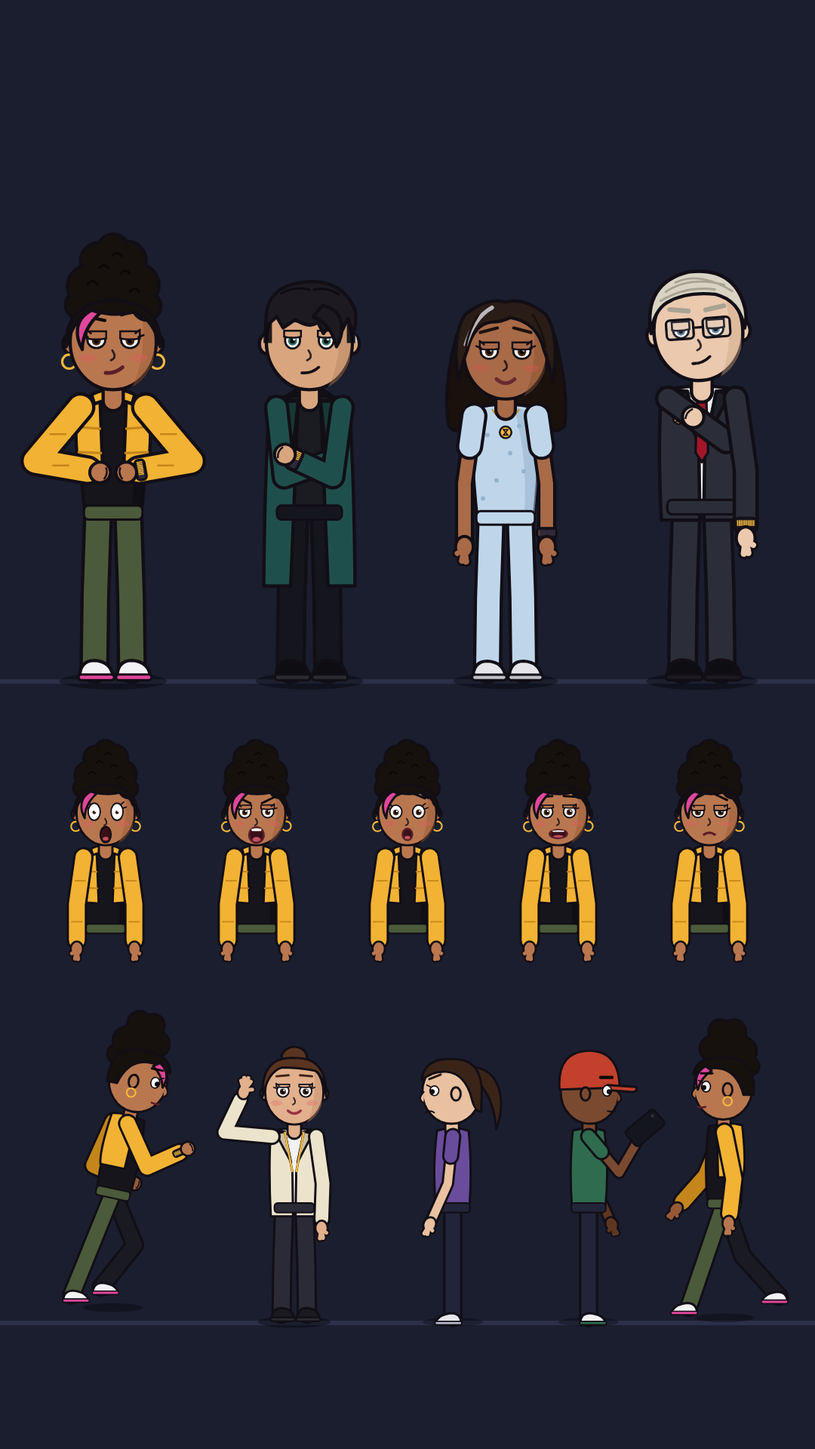
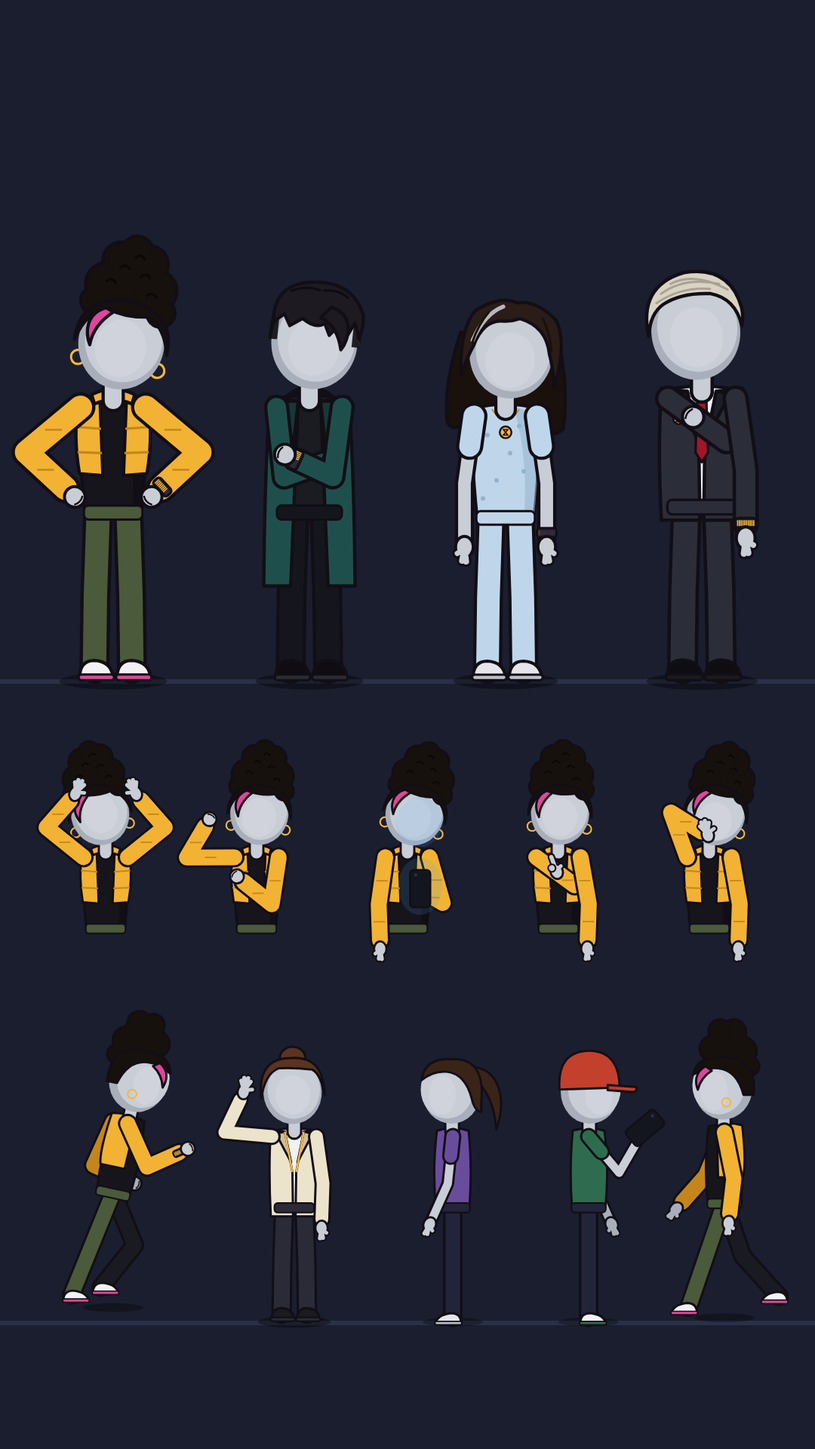
SALDO FINAL (Zara): rostos no estilo SALDO FINAL (cabeças cinza sem traços), emoção pela postura
Claude-Session: https://claude.ai/code/session_01CqQZBRn4GtT1uCn1wLfiQv

diff --git a/saldo-final-zara/src/characters/Toon.tsx b/saldo-final-zara/src/characters/Toon.tsx
@@ -129,6 +129,23 @@ const EXPR: Record<Expr, {brow: number; browY: number; eye: number; lid: number;
   cold:       {brow: 6,   browY: 2,   eye: 0.8,  lid: 0.32, pup: 0.9,  mouth: 'smirk'},
 };
 
+/** CABEÇA SEM ROSTO — mesmo estilo da série SALDO FINAL (Maya): cabeça redonda cinza-clara, sem olhos,
+ * nariz ou boca; volume por uma esfera clara deslocada para o lado do rosto + plano do rosto discreto. */
+export const FacelessHead: React.FC<{lookX: number; lookY: number; skin: string; shade: string; side?: boolean}> = ({lookX, lookY, skin, shade, side}) => {
+  const cx = side ? 4 : 0;
+  return (
+    <g>
+      <ellipse cx={cx} cy={-722} rx={92} ry={100} fill={shade} />
+      <ellipse cx={cx + lookX * 12 + 4} cy={-730} rx={83} ry={92} fill={skin} />
+      <ellipse cx={cx + lookX * 34} cy={-712 + lookY * 20} rx={55 - Math.abs(lookX) * 14} ry={62} fill="#FFFFFF" opacity={0.13} />
+    </g>
+  );
+};
+const EXPR_HEAD: Record<Expr, number> = {neutral: 0, smile: -3, smirk: 6, sarcastic: 10, worried: 5, sad: 12, weak: 10, tender: 7,
+  surprised: -7, shock: -10, fear: -4, angry: 5, determined: 3, cold: -3};
+const EXPR_LOOKY: Record<Expr, number> = {neutral: 0, smile: -0.1, smirk: 0, sarcastic: 0.1, worried: 0.2, sad: 0.8, weak: 0.6, tender: 0.3,
+  surprised: -0.4, shock: -0.5, fear: -0.1, angry: 0.2, determined: 0.1, cold: 0.1};
+
 export const blink = (t: number, seed = 0) => {
   const period = 2.9 + (seed % 4) * 0.6;
   const p = (t + seed * 0.37) % period;
@@ -405,7 +422,8 @@ export const Toon: React.FC<ToonProps> = (p) => {
   const bob = run * Math.abs(Math.sin(cyc)) * -18;
   const tr = tremble ? Math.sin(t * 55) * 3 * tremble : 0;
   const fx = lookX * 22;
-  const head = (pose.head ?? 0) + talk * Math.sin(t * 11) * 1.5;
+  const head = (pose.head ?? 0) + EXPR_HEAD[expr] + talk * Math.sin(t * 11) * 2.2 + talk * Math.sin(t * 4.3) * 1.5;
+  const lookYb = lookY + EXPR_LOOKY[expr];
   const sway = Math.sin(t * 2.3) * 5 - lookX * 10;
   let ps = pose;
   if (phone === 'ear' && !pose.lT) ps = {...pose, lT: {x: 96, y: -700}, lHand: 'grip'};
@@ -423,16 +441,12 @@ export const Toon: React.FC<ToonProps> = (p) => {
         <TorsoFront look={look} br={br} />
         <Stroke d="M0,-640 L0,-596" w={36} col={look.skin} />
         <g transform={`rotate(${head}, 0, -620) translate(0, ${br * 0.2})`}>
-          {/* orelhas */}
-          {[-1, 1].map((sd) => <ellipse key={sd} cx={sd * 92 + fx * 0.3} cy={-718} rx={15} ry={21} fill={look.skin} stroke={OL} strokeWidth={OW} />)}
-          {look.hoops && [-1, 1].map((sd) => <circle key={`h${sd}`} cx={sd * 94 + fx * 0.3} cy={-680} r={15} fill="none" stroke={look.hoops} strokeWidth={5} />)}
-          {look.earcuff && <path d={`M${88 + fx * 0.3},-736 a8,10 0 0,1 10,14`} stroke="#C9CED8" strokeWidth={5} fill="none" />}
-          <ellipse cx={0} cy={-722} rx={92} ry={102} fill={look.skin} stroke={OL} strokeWidth={OW} />
-          <path d={`M60,-800 Q96,-760 86,-680 Q70,-640 40,-626 Q74,-690 60,-800 Z`} fill={look.skinShade} opacity={0.45} />
-          {look.stubble && <path d="M-74,-690 Q-66,-620 0,-622 Q66,-620 74,-690 Q60,-646 0,-646 Q-60,-646 -74,-690 Z" fill={look.stubble} opacity={0.45} />}
-          <FaceFront look={look} expr={expr} t={t} lookX={lookX} lookY={lookY} talk={talk} vis={vis} seed={seed} />
+          {look.hoops && [-1, 1].map((sd) => <circle key={`h${sd}`} cx={sd * 86 + fx * 0.2} cy={-676} r={15} fill="none" stroke={look.hoops} strokeWidth={5} />)}
+          {look.earcuff && <path d={`M${84 + fx * 0.2},-736 a8,10 0 0,1 10,14`} stroke="#E6E8EF" strokeWidth={5} fill="none" />}
+          <FacelessHead lookX={lookX} lookY={lookYb} skin={look.skin} shade={look.skinShade} />
           <HairFront look={look} fx={fx} t={t} />
-          {faceLight && <ellipse cx={0} cy={-700} rx={92} ry={96} fill={faceLight} opacity={0.13} />}
+          {faceLight && <ellipse cx={lookX * 30} cy={-712} rx={80} ry={86} fill={faceLight} opacity={0.22} />}
+          {phoneGlow && phone !== 'none' && <ellipse cx={20 + lookX * 20} cy={-700} rx={74} ry={80} fill={phoneGlow} opacity={0.14} />}
         </g>
         <ArmFront side={-1} sh={R[0]} el={R[1]} look={look} hand={ps.rHand ?? (phone === 'R' ? 'grip' : 'relaxed')} handRot={ps.rHandRot} fs={ps.rFs} prop={phone === 'R' ? ph : holdR} t={t} />
         <ArmFront side={1} sh={L[0]} el={L[1]} look={look} hand={ps.lHand ?? (phone === 'L' || phone === 'ear' ? 'grip' : 'relaxed')} handRot={ps.lHandRot} fs={ps.lFs}
@@ -525,17 +539,9 @@ const ToonSide: React.FC<ToonProps> = ({t, look, expr = 'neutral', lookY = 0, ta
         <rect x={-54} y={-372} width={108} height={30} rx={10} fill={look.pants} stroke={OL} strokeWidth={5} />
         <Stroke d="M2,-640 L2,-596" w={36} col={look.skin} />
         <g transform={`rotate(${lookY * 10}, 0, -640)`}>
-          <ellipse cx={4} cy={-722} rx={92} ry={100} fill={look.skin} stroke={OL} strokeWidth={OW} />
-          <path d="M90,-724 Q114,-700 92,-688" fill={look.skin} stroke={OL} strokeWidth={5} />
-          {look.stubble && <path d="M10,-640 Q60,-628 86,-670 L86,-640 Q50,-612 10,-622 Z" fill={look.stubble} opacity={0.45} />}
+          <FacelessHead lookX={0.85} lookY={lookY} skin={look.skin} shade={look.skinShade} side />
           {hairSide()}
-          <ellipse cx={-10} cy={-716} rx={15} ry={21} fill={look.skin} stroke={OL} strokeWidth={OW} />
-          {look.hoops && <circle cx={-10} cy={-680} r={14} fill="none" stroke={look.hoops} strokeWidth={5} />}
-          <line x1={38} y1={-768 + E.browY + E.brow * 0.4} x2={74} y2={-768 + E.browY - E.brow * 0.4} stroke={look.hairShade} strokeWidth={look.brow ?? (look.female ? 7 : 10)} strokeLinecap="round" />
-          <ellipse cx={58} cy={-726} rx={14} ry={Math.max(1.5, eyeH)} fill="#fff" stroke={OL} strokeWidth={4} />
-          {eyeH > 4 && <circle cx={65} cy={-723 + lookY * 5} r={Math.min(8 * E.pup, eyeH)} fill="#0C0A10" />}
-          {look.female && eyeH > 4 && <path d={`M70,${-726 - eyeH * 0.8} l12,-6`} stroke={OL} strokeWidth={4} strokeLinecap="round" />}
-          <Mouth expr={expr} talk={talk} vis={vis} mx={mx} my={my} look={look} s={0.8} />
+          {look.hoops && <circle cx={-6} cy={-676} r={14} fill="none" stroke={look.hoops} strokeWidth={5} />}
         </g>
         {arm(nSh, nEl, true)}
       </g>
@@ -550,7 +556,7 @@ export const extraLook = (seed: number, base: Partial<Look> = {}): Look => {
   const tops = ['#3D4A6B', '#6B3D5A', '#2F6B5E', '#7A5A2E', '#4E4E5E', '#5A3D7A'];
   const styles: Look['hairStyle'][] = ['short', 'bun', 'ponytail', 'cap', 'short'];
   const r = (k: string) => rnd(`${seed}${k}`);
-  const [sk, ss] = skins[Math.floor(r('s') * skins.length)];
+  const [sk, ss] = ['#C9CDD6', '#A9AEBB']; void skins;
   const [hc, hs] = hairs[Math.floor(r('h') * hairs.length)];
   const st = styles[Math.floor(r('st') * styles.length)];
   return {

diff --git a/saldo-final-zara/src/characters/Cast.tsx b/saldo-final-zara/src/characters/Cast.tsx
@@ -2,10 +2,13 @@ import React from 'react';
 import {Look, Pose, Toon, ToonProps} from './Toon';
 import {C} from '../styles/theme';
 
+/** corpo cinza-claro, igual em todo o elenco (estilo SALDO FINAL) */
+export const SKIN = '#C9CDD6', SKIN_SHADE = '#A9AEBB';
+
 /** ELENCO OFICIAL — não alterar aparência entre episódios (ver GUIA_DE_CONTINUIDADE.md). */
 export const ZARA: Look = {
   name: 'Zara Vilar', female: true,
-  skin: '#B9774F', skinShade: '#965A37', blush: '#D9605E', lips: '#5A1F2A',
+  skin: SKIN, skinShade: SKIN_SHADE,
   hair: '#17110E', hairShade: '#0B0807', hairStyle: 'puff', streak: C.magenta, eyeColor: '#4A2A14',
   shirt: '#17151C', shirtShade: '#0C0B10', top: 'puffer', topColor: '#F2B233', topShade: '#C4861A',
   pants: '#4B5A3A', shoe: '#F2F2F5', sole: C.magenta, hoops: C.gold, build: 0.92,
@@ -13,37 +16,37 @@ export const ZARA: Look = {
 export const ZARA_DELIVERY: Look = {...ZARA, bag: true};
 export const DANTE: Look = {
   name: 'Dante Reis',
-  skin: '#D8A57E', skinShade: '#B5845F', hair: '#1D1A22', hairShade: '#0E0C12', hairStyle: 'messy', eyeColor: '#2D6B5E',
+  skin: SKIN, skinShade: SKIN_SHADE, hair: '#1D1A22', hairShade: '#0E0C12', hairStyle: 'messy', eyeColor: '#2D6B5E',
   shirt: '#1B1B22', shirtShade: '#101016', top: 'coat', topColor: '#1F4F4C', topShade: '#163937',
   pants: '#15161D', shoe: '#0E0E12', sole: '#2A2B33', earcuff: true, build: 1.02,
 };
 export const HELENA: Look = {
   name: 'Helena Vilar', female: true,
-  skin: '#A86A47', skinShade: '#88502F', blush: '#C9584F', lips: '#6A2A30',
+  skin: SKIN, skinShade: SKIN_SHADE,
   hair: '#2A1C16', hairShade: '#1A110D', hairStyle: 'wavy', eyeColor: '#4A2A14',
   shirt: '#BFD6EA', shirtShade: '#94B2CC', top: 'gown', pants: '#BFD6EA', shoe: '#E6E6EA', sole: '#C0C0C8', locket: true, build: 0.95,
 };
 export const CIRO: Look = {
   name: 'Ciro Voss',
-  skin: '#EBC9AE', skinShade: '#CFA88A', hair: '#D9D3C4', hairShade: '#A9A293', hairStyle: 'slick', eyeColor: '#5B7A99',
+  skin: SKIN, skinShade: SKIN_SHADE, hair: '#D9D3C4', hairShade: '#A9A293', hairStyle: 'slick', eyeColor: '#5B7A99',
   shirt: '#F2F2F5', shirtShade: '#CFCFD8', top: 'suit', topColor: '#2B2D38', topShade: '#1C1E27', tie: '#A3162A', pin: C.gold,
-  pants: '#2B2D38', shoe: '#0E0E12', sole: '#1A1A20', glasses: true, build: 1.05,
+  pants: '#2B2D38', shoe: '#0E0E12', sole: '#1A1A20', build: 1.05,
 };
 export const ATENDENTE: Look = {
   name: 'Atendente Áurea', female: true,
-  skin: '#E2B08C', skinShade: '#C48F6C', blush: '#E07C70', lips: '#9A3344',
+  skin: SKIN, skinShade: SKIN_SHADE,
   hair: '#5A3420', hairShade: '#3F2315', hairStyle: 'bun',
   shirt: '#F2F2F5', shirtShade: '#D5D5DD', top: 'blazer', topColor: '#ECE3CC', topShade: '#CBBF9F', trim: C.gold,
   pants: '#2A2B36', shoe: '#1A1A20', sole: '#2A2A30', build: 0.92,
 };
 export const JOVEM: Look = {
   name: 'Jovem no guichê', female: true,
-  skin: '#E9C1A0', skinShade: '#CA9F7D', blush: '#E07C70', hair: '#3A2418', hairShade: '#24160F', hairStyle: 'ponytail',
+  skin: SKIN, skinShade: SKIN_SHADE, hair: '#3A2418', hairShade: '#24160F', hairStyle: 'ponytail',
   shirt: '#6A4C9C', shirtShade: '#4E3778', top: 'hoodie', pants: '#22243A', shoe: '#E6E6EA', sole: '#B9BCC8', build: 0.9,
 };
 export const RAPAZ: Look = {
   name: 'Rapaz da fila',
-  skin: '#7A4A30', skinShade: '#5E3620', hair: '#14110F', hairShade: '#0B0908', hairStyle: 'cap', capColor: '#C2402C',
+  skin: SKIN, skinShade: SKIN_SHADE, hair: '#14110F', hairShade: '#0B0908', hairStyle: 'cap', capColor: '#C2402C',
   shirt: '#2F6B4E', shirtShade: '#214D38', top: 'hoodie', pants: '#22243A', shoe: '#F2F2F5', sole: '#2F6B4E',
 };
 

diff --git a/saldo-final-zara/src/CharacterSheet.tsx b/saldo-final-zara/src/CharacterSheet.tsx
@@ -16,11 +16,11 @@ export const CharacterSheet: React.FC = () => {
         <Toon t={t} look={HELENA} pose={P.idle} expr="tender" x={670} y={900} scale={0.6} band={0.05} />
         <Toon t={t} look={CIRO} pose={P.lapel} expr="cold" x={930} y={900} scale={0.64} band={1} />
         <rect x={0} y={1750} width={1080} height={6} fill="#2A3048" />
-        <Toon t={t} look={ZARA} expr="shock" x={140} y={1380} scale={0.42} noLegs />
-        <Toon t={t} look={ZARA} expr="angry" x={340} y={1380} scale={0.42} noLegs talk={0.7} vis="A" />
-        <Toon t={t} look={ZARA} expr="worried" x={540} y={1380} scale={0.42} noLegs talk={0.5} vis="O" />
-        <Toon t={t} look={ZARA} expr="smile" x={740} y={1380} scale={0.42} noLegs talk={0.6} vis="E" />
-        <Toon t={t} look={ZARA} expr="sad" x={940} y={1380} scale={0.42} noLegs />
+        <Toon t={t} look={ZARA} pose={P.headHands} expr="shock" x={140} y={1380} scale={0.42} noLegs />
+        <Toon t={t} look={ZARA} pose={P.weapon} expr="angry" x={340} y={1380} scale={0.42} noLegs />
+        <Toon t={t} look={ZARA} pose={P.phoneLook} phone="L" phoneGlow="#3FA7FF" expr="worried" x={540} y={1380} scale={0.42} noLegs />
+        <Toon t={t} look={ZARA} pose={P.pointFwd} expr="determined" x={740} y={1380} scale={0.42} noLegs />
+        <Toon t={t} look={ZARA} pose={P.coverMouth} expr="sad" x={940} y={1380} scale={0.42} noLegs />
         <Toon t={t} look={ZARA} facing="side" run={1} x={150} y={1750} scale={0.42} band={0.8} />
         <Toon t={t} look={ATENDENTE} pose={P.wave} expr="smile" x={390} y={1750} scale={0.42} />
         <Toon t={t} look={JOVEM} facing="side" expr="sad" x={600} y={1750} scale={0.42} dir={-1} />

diff --git a/saldo-final-zara/EP01_ROTEIRO_E_STORYBOARD.md b/saldo-final-zara/EP01_ROTEIRO_E_STORYBOARD.md
@@ -1,6 +1,6 @@
 # SALDO FINAL — EP. 1: “QUANTO VALE SUA VIDA?”
 
-Vertical 9:16 · 1080 × 1920 · 30 fps · **89 s** (limite: 90 s) · animação 2D com contorno preto e cores chapadas.
+Vertical 9:16 · 1080 × 1920 · 30 fps · **89 s** (limite: 90 s) · animação 2D com contorno preto e cores chapadas. Rostos no estilo SALDO FINAL: cabeças redondas cinza-claras **sem traços faciais**.
 O público vota **A** ou **B** nos comentários. O EP. 2 só será escrito depois do resultado.
 
 ---
@@ -16,15 +16,17 @@ e o executivo Ciro Voss oferece um acordo bom demais. Entre a vida da mãe e a v
 ## 2. Ficha visual dos personagens
 
 Modelos em `src/characters/Cast.tsx` e folha de modelo em `out/personagens.png`. Regras comuns: contorno
-preto (#120E16), cores chapadas, sombra lateral simples, olhos grandes com brilho, boca sincronizada à fala.
+preto (#120E16) nas roupas e cabelos, cores chapadas e **corpo cinza-claro (#C9CDD6) com cabeça redonda sem olhos, nariz ou boca**
+(mesmo estilo de rosto da outra minissérie SALDO FINAL). A emoção vem da postura, da inclinação da cabeça, dos gestos e da voz.
+Cada personagem se reconhece pelo cabelo, pela roupa e pela silhueta.
 Todo mundo usa no pulso esquerdo a **pulseira de saldo**: 10 segmentos dourados que mostram quanto de vida resta.
 
 | Personagem | Visual fixo | Personalidade e atuação | Voz |
 |---|---|---|---|
-| **ZARA VILAR** (22) | pele marrom, black puff alto e cacheado com **mecha magenta**, argolas douradas, **jaqueta puffer cropped amarela**, top preto, calça cargo verde-oliva, tênis branco com sola magenta. No EP. 1 trabalha de entregadora (alças vermelhas da mochila térmica e sacola). Pulseira cheia (~82 %). | Sarcástica, impulsiva e corajosa. Sobrancelha arqueada, sorriso de canto, gestos grandes. Sob pressão, punhos fechados e queixo para a frente. | Francisca (pt-BR), +8 % de velocidade, tom +3 Hz, sem eco |
-| **DANTE REIS** (24) | pele clara oliva, cabelo preto bagunçado com laterais raspadas e **franja caindo sobre o olho**, sobretudo verde-petróleo comprido, moletom preto com capuz abaixado, olhos verde-água, ear cuff prateado. Pulseira pela metade. | Irônico e misterioso. Encostado no batente, braços cruzados, meio sorriso. Quando fala sério, aponta e se inclina para a frente. | Antonio (pt-BR), +10 %, tom +8 Hz (jovem) |
-| **HELENA VILAR** (46) | mesma família de pele da Zara, cabelo ondulado nos ombros com **mecha grisalha**, camisola hospitalar azul-clara de bolinhas, **pingente dourado com o símbolo da Áurea**. Pulseira quase vazia, piscando. | Amorosa e cansada. Pálpebras pesadas e voz fraca. Toca o pingente quando esconde algo. | Thalita (pt-BR), −12 %, tom −8 Hz, voz fraca |
-| **CIRO VOSS** (38) | pele clara, cabelo loiro-prateado penteado para trás, óculos retangulares, terno grafite, gravata vermelho-escura, **broche dourado da Áurea**. No EP. 1 aparece só como **holograma azul**. | Frio, elegante e manipulador. Mão na lapela, palma aberta oferecendo e sorriso de canto. | Antonio (pt-BR), −2 %, tom −10 Hz, tratamento de holograma |
+| **ZARA VILAR** (22) | black puff alto e cacheado com **mecha magenta**, argolas douradas, **jaqueta puffer cropped amarela**, top preto, calça cargo verde-oliva, tênis branco com sola magenta. No EP. 1 trabalha de entregadora (alças vermelhas da mochila térmica e sacola). Pulseira cheia (~82 %). | Sarcástica, impulsiva e corajosa. Cabeça inclinada de lado (ironia), gestos grandes. Sob pressão, punhos fechados e corpo para a frente. | Francisca (pt-BR), +8 % de velocidade, tom +3 Hz, sem eco |
+| **DANTE REIS** (24) | cabelo preto bagunçado com laterais raspadas e **franja caindo sobre o olho**, sobretudo verde-petróleo comprido, moletom preto com capuz abaixado, ear cuff prateado. Pulseira pela metade. | Irônico e misterioso. Encostado no batente, braços cruzados, cabeça levemente inclinada. Quando fala sério, aponta e se inclina para a frente. | Antonio (pt-BR), +10 %, tom +8 Hz (jovem) |
+| **HELENA VILAR** (46) | cabelo ondulado nos ombros com **mecha grisalha**, camisola hospitalar azul-clara de bolinhas, **pingente dourado com o símbolo da Áurea**. Pulseira quase vazia, piscando. | Amorosa e cansada. Cabeça baixa e voz fraca. Toca o pingente quando esconde algo. | Thalita (pt-BR), −12 %, tom −8 Hz, voz fraca |
+| **CIRO VOSS** (38) | cabelo loiro-prateado penteado para trás, terno grafite, gravata vermelho-escura, **broche dourado da Áurea**. No EP. 1 aparece só como **holograma azul**. | Frio, elegante e manipulador. Postura ereta, mão na lapela e palma aberta oferecendo. | Antonio (pt-BR), −2 %, tom −10 Hz, tratamento de holograma |
 | Atendente da Áurea | coque castanho, blazer creme com debrum dourado | simpática no automático | Thalita, +16 %, tom +8 Hz |
 | Jovem no guichê | rabo de cavalo, moletom roxo | abatida | Francisca, tom +14 Hz |
 | Rapaz da fila | boné vermelho, moletom verde | entediado no celular | Antonio, +14 % |
@@ -83,7 +85,7 @@ até a torre, que se acende.
 - **ZARA** (sem acreditar): Pera… os anos dela tão indo pra torre da Áurea?!
 - **DANTE** (encostado na porta, braços cruzados): Isso não é doença. É saque.
 - **ZARA** (agarra o suporte de soro como arma): Mano, quem é você?! Chega mais perto que eu te furo com o soro!
-- **DANTE** (mãos para o alto, meio sorriso): Justo. Dante. E a sua mãe trabalhou pra eles, sabia?
+- **DANTE** (mãos para o alto, descontraído): Justo. Dante. E a sua mãe trabalhou pra eles, sabia?
 
 **CENA 6 — O SEGREDO** (53,3–58,3 s)
 - **ZARA** (abaixa o soro, vira-se para a mãe): Mãe… isso é verdade?
@@ -94,7 +96,7 @@ até a torre, que se acende.
 O terminal falha e projeta um holograma azul: Ciro, mão na lapela.
 - **CIRO** (calmo, cordial demais): Boa noite, Zara. Dez anos… e ela vive. Simples.
 - **DANTE** (avança e aponta para o holograma): Não assina. Se vender pra eles, você vira propriedade deles.
-- **CIRO** (aponta para Dante, sorriso de canto): Vai confiar num rapaz que nem existe no nosso sistema?
+- **CIRO** (aponta para Dante, cabeça erguida): Vai confiar num rapaz que nem existe no nosso sistema?
 - **ZARA** (mão na boca, encara Dante): Tá zoando… ele não existe?!
   *(Dante não responde e desvia o olhar.)*
 
@@ -130,11 +132,11 @@ Os quadros reais do vídeo, um por plano, estão em `out/storyboard_ep01.png`.
 
 | Plano | Tempo | Enquadramento e câmera | Ação e atuação | Som |
 |---|---|---|---|---|
-| 1A | 0,0–1,5 | close extremo no leitor dourado → recua e sobe rápido (z 3,4 → 2,1) | atendente acena, sorriso profissional | pulso grave, murmúrio da agência |
+| 1A | 0,0–1,5 | close extremo no leitor dourado → recua e sobe rápido (z 3,4 → 2,1) | atendente acena, postura simpática | pulso grave, murmúrio da agência |
 | 1B | 2,3–4,2 | plano médio de dois: atendente + jovem de perfil | jovem triste, ombros caídos | murmúrio |
 | 1C | 4,2–6,8 | plano médio | pulso no leitor; partículas saem do pulso e sobem ao tubo do teto; a pulseira perde um segmento | leitor (bip ascendente) + cintilar dourado |
-| 1D | 6,8–8,4 | travelling lateral pela fila | todos no celular; rapaz revira os olhos | — |
-| 1E | 8,4–12,4 | travelling até a porta → plano médio da Zara | Zara entra caminhando de perfil, vira de frente, ergue a sacola, sobrancelha arqueada | porta, chuva lá fora |
+| 1D | 6,8–8,4 | travelling lateral pela fila | todos no celular; rapaz bufa, entediado | — |
+| 1E | 8,4–12,4 | travelling até a porta → plano médio da Zara | Zara entra caminhando de perfil, vira de frente, ergue a sacola, cabeça inclinada, ironia | porta, chuva lá fora |
 | 2A | 12,4–19,0 | plano médio fechado, câmera se aproximando; tremor em “zerando” | celular vibra; leva ao ouvido; neutra → preocupada → choque → raiva; a mão treme | vibração, atender, drone grave |
 | 2B | 18,4–19,6 | plano médio | a sacola cai; Zara sai correndo de perfil | queda da sacola, whoosh |
 | 3A | 19,6–24,6 | travelling lateral acompanhando a corrida; parallax em 4 camadas; chuva em primeiro plano | corrida (ciclo de 11 passos/s), respingos; expressão de medo → determinação | chuva, passos na água, respiração, trovão (clarão) |
@@ -145,17 +147,17 @@ Os quadros reais do vídeo, um por plano, estão em `out/storyboard_ep01.png`.
 | 5A | 38,6–42,9 | plano geral (o rio dourado vai da cama à janela) | Zara vira para a janela: surpresa → choque; a torre acende | riser + cintilar contínuo |
 | 5B | 42,9–45,5 | chicote para a porta, plano médio do Dante | encostado, braços cruzados, olhar frio | impacto |
 | 5C | 45,5–49,2 | punch-in com tremor na Zara | agarra o soro e aponta para Dante (humor) | metal do suporte |
-| 5D | 49,2–53,3 | plano de dois | Dante ergue as mãos, meio sorriso → frio em “sua mãe”; Zara em choque | braam |
+| 5D | 49,2–53,3 | plano de dois | Dante ergue as mãos, descontraído → sério em “sua mãe”; Zara em choque | braam |
 | 6A | 53,3–54,9 | plano de dois | Zara abaixa o soro e olha para a mãe | batimento |
 | 6B | 54,9–56,0 | insert macro no pingente | o símbolo da Áurea brilha | — |
-| 6C | 56,0–58,3 | close da Helena | olhos baixos, culpa | — |
+| 6C | 56,0–58,3 | close da Helena | cabeça baixa, culpa | — |
 | 7A | 58,3–62,5 | plano médio do terminal | glitch; o holograma do Ciro surge com cintilação | glitch, holograma ligando, zumbido |
 | 7B | 62,5–66,2 | plano de três | Dante avança e aponta, com raiva | — |
-| 7C | 66,2–69,6 | close no holograma | Ciro aponta para Dante, sorriso de canto | pulso grave |
+| 7C | 66,2–69,6 | close no holograma | Ciro aponta para Dante, cabeça erguida | pulso grave |
 | 7D | 69,6–72,0 | close da Zara → close do Dante | mão na boca; Dante desvia o olhar | drone |
 | 8A | 72,0–75,1 | close de dois com zoom lento; luz vermelha piscando | Helena agarra o pulso da filha; tremor | alarme, monitor acelerado |
 | 8B | 75,1–77,4 | preto | — | linha reta e silêncio |
-| 9A | 77,4–89,0 | plano médio frontal com push-in lento | fala para a câmera; aponta para o público; gesto para a esquerda (A, luz dourada no rosto) e para a direita (B); termina com mãos na cintura e olhar sarcástico | impacto, trilha de volta |
+| 9A | 77,4–89,0 | plano médio frontal com push-in lento | fala para a câmera; aponta para o público; gesto para a esquerda (A, luz dourada no rosto) e para a direita (B); termina com mãos na cintura e cabeça inclinada | impacto, trilha de volta |
 
 ## 7. Direção de câmera e transições
 
@@ -177,9 +179,10 @@ Os quadros reais do vídeo, um por plano, estão em `out/storyboard_ep01.png`.
 - **Motor**: React + Remotion (cada quadro é uma função do tempo, o que garante sincronia exata). Personagens em SVG vetorial.
 - **Rig** (`src/characters/Toon.tsx`): esqueleto com IK nos braços (a mão alcança qualquer ponto), poses interpoladas com easing
   (`act.ts → posekf`), respiração, piscadas automáticas, ciclos de caminhada e corrida, tremor e vistas de frente e de perfil.
-- **Sincronia labial**: a abertura da boca vem da intensidade real da voz quadro a quadro (`voice_env.generated.json`). O formato da
-  boca (A, E, I, O, U, M) vem da letra da palavra que está sendo falada naquele instante (marcas de tempo do TTS).
-- **Expressões**: 14 (`neutral`, `smile`, `smirk`, `sarcastic`, `worried`, `sad`, `weak`, `tender`, `surprised`, `shock`, `fear`, `angry`, `determined`, `cold`).
+- **Sem rosto, com atuação**: como as cabeças não têm traços, a fala move a cabeça e o tronco no ritmo da intensidade real da voz,
+  quadro a quadro (`voice_env.generated.json`), e os gestos entram nas palavras exatas (marcas de tempo do TTS).
+- **Emoções** (14 estados: `neutral`, `smile`, `smirk`, `sarcastic`, `worried`, `sad`, `weak`, `tender`, `surprised`, `shock`, `fear`, `angry`,
+  `determined`, `cold`) viram inclinação e direção da cabeça, combinadas com as poses (mãos na cabeça, soro como arma, braços cruzados…).
 - **Consistência**: personagens e cenários são componentes únicos e reutilizados, então nada muda de um plano para outro.
 
 ## 10. Organização, montagem e exportação

diff --git a/saldo-final-zara/README.md b/saldo-final-zara/README.md
@@ -1,8 +1,8 @@
 # SALDO FINAL — EP. 1: “Quanto vale sua vida?”
 
 Minissérie animada interativa em 2D, com contorno preto e cores chapadas. Formato vertical 9:16
-(1080 × 1920, 30 fps, 89 s). Tudo é código editável: personagens vetoriais com rosto expressivo e boca
-sincronizada, animados em React/Remotion; vozes neurais em pt-BR; trilha e efeitos originais sintetizados.
+(1080 × 1920, 30 fps, 89 s). Tudo é código editável: personagens vetoriais com cabeças sem rosto (mesmo estilo da série SALDO FINAL da Maya),
+animados em React/Remotion; vozes neurais em pt-BR; trilha e efeitos originais sintetizados.
 
 - **Roteiro, fichas, regras do universo, storyboard e direção**: [`EP01_ROTEIRO_E_STORYBOARD.md`](EP01_ROTEIRO_E_STORYBOARD.md)
 - **Continuidade para os próximos episódios**: [`GUIA_DE_CONTINUIDADE.md`](GUIA_DE_CONTINUIDADE.md)
@@ -36,11 +36,11 @@ dois, o Remotion baixa o próprio navegador. As vozes precisam de acesso a `spee
 
 ## Como funciona
 
-- **`src/characters/Toon.tsx`**: motor dos personagens. Contorno preto, IK nos braços, vistas de frente e de
-  perfil, caminhada e corrida, 14 expressões, piscadas, respiração e a pulseira de saldo de vida.
-- **Sincronia labial**: `pipeline/tts.py` salva o tempo de cada palavra e `pipeline/mix.py` salva a intensidade
-  da voz quadro a quadro. `data/dialogue.ts → mouthAt` combina os dois: a abertura vem do volume real e o
-  formato (A/E/I/O/U/M) vem da letra falada naquele instante.
+- **`src/characters/Toon.tsx`**: motor dos personagens. Cabeça redonda cinza sem traços (`FacelessHead`), roupas e
+  cabelos com contorno, IK nos braços, vistas de frente e de perfil, caminhada e corrida, respiração e a pulseira de saldo.
+  As emoções viram inclinação e direção da cabeça.
+- **Fala sincronizada**: `pipeline/tts.py` salva o tempo de cada palavra e `pipeline/mix.py` salva a intensidade da
+  voz quadro a quadro. Quem fala mexe a cabeça e o tronco no ritmo real da própria voz.
 - **Edição de diálogo automática**: pausas longas da síntese são encurtadas e os tempos das palavras são
   remapeados, para as falas caberem no ritmo das cenas.
 - **Cenas** (`src/scenes/Scene01…09`) usam o tempo global em segundos, sincronizado com o áudio. Reaproveitam

diff --git a/saldo-final-zara/GUIA_DE_CONTINUIDADE.md b/saldo-final-zara/GUIA_DE_CONTINUIDADE.md
@@ -1,7 +1,9 @@
 # SALDO FINAL — Guia de continuidade
 
 ## Visual (não mudar)
-- 2D, contorno preto `#120E16` (7 px na escala do rig), cores chapadas, uma sombra lateral no rosto.
+- 2D, contorno preto `#120E16` em roupas e cabelos, cores chapadas.
+- **Rostos no estilo SALDO FINAL (Maya)**: cabeça redonda cinza-clara `#C9CDD6`, **sem olhos, nariz ou boca**, com volume suave
+  e um plano do rosto discreto que indica o olhar. Mãos e braços também em cinza-claro. A emoção vem do corpo e da voz.
 - Proibido: realismo, 3D, texto dentro da animação. Telas e letreiros usam só ícones. Títulos, legendas e
   votação ficam na camada de edição (`components/TextLayer.tsx`, `Subtitles.tsx`).
 - Legendas: 1 a 3 palavras, MAIÚSCULAS, Montserrat Black com contorno grosso. A palavra falada fica em
@@ -11,9 +13,9 @@
 | | Visual | Voz |
 |---|---|---|
 | Zara (22) | black puff com mecha magenta, argolas douradas, puffer cropped amarela, top preto, cargo verde-oliva, tênis branco com sola magenta | Francisca +8 % / +3 Hz |
-| Dante (24) | franja bagunçada sobre o olho, laterais raspadas, sobretudo verde-petróleo, moletom preto, ear cuff, olhos verde-água | Antonio +10 % / +8 Hz |
+| Dante (24) | franja bagunçada sobre o olho, laterais raspadas, sobretudo verde-petróleo, moletom preto, ear cuff | Antonio +10 % / +8 Hz |
 | Helena (46) | ondulado com mecha grisalha, camisola hospitalar azul, pingente da Áurea | Thalita −12 % / −8 Hz |
-| Ciro Voss (38) | loiro-prateado para trás, óculos, terno grafite, gravata vermelho-escura, broche da Áurea | Antonio −2 % / −10 Hz (holograma) |
+| Ciro Voss (38) | loiro-prateado para trás, terno grafite, gravata vermelho-escura, broche da Áurea | Antonio −2 % / −10 Hz (holograma) |
 
 ## Universo
 Pulseira de 10 segmentos no pulso esquerdo · agências da Áurea funcionam como bancos · anos = partículas
